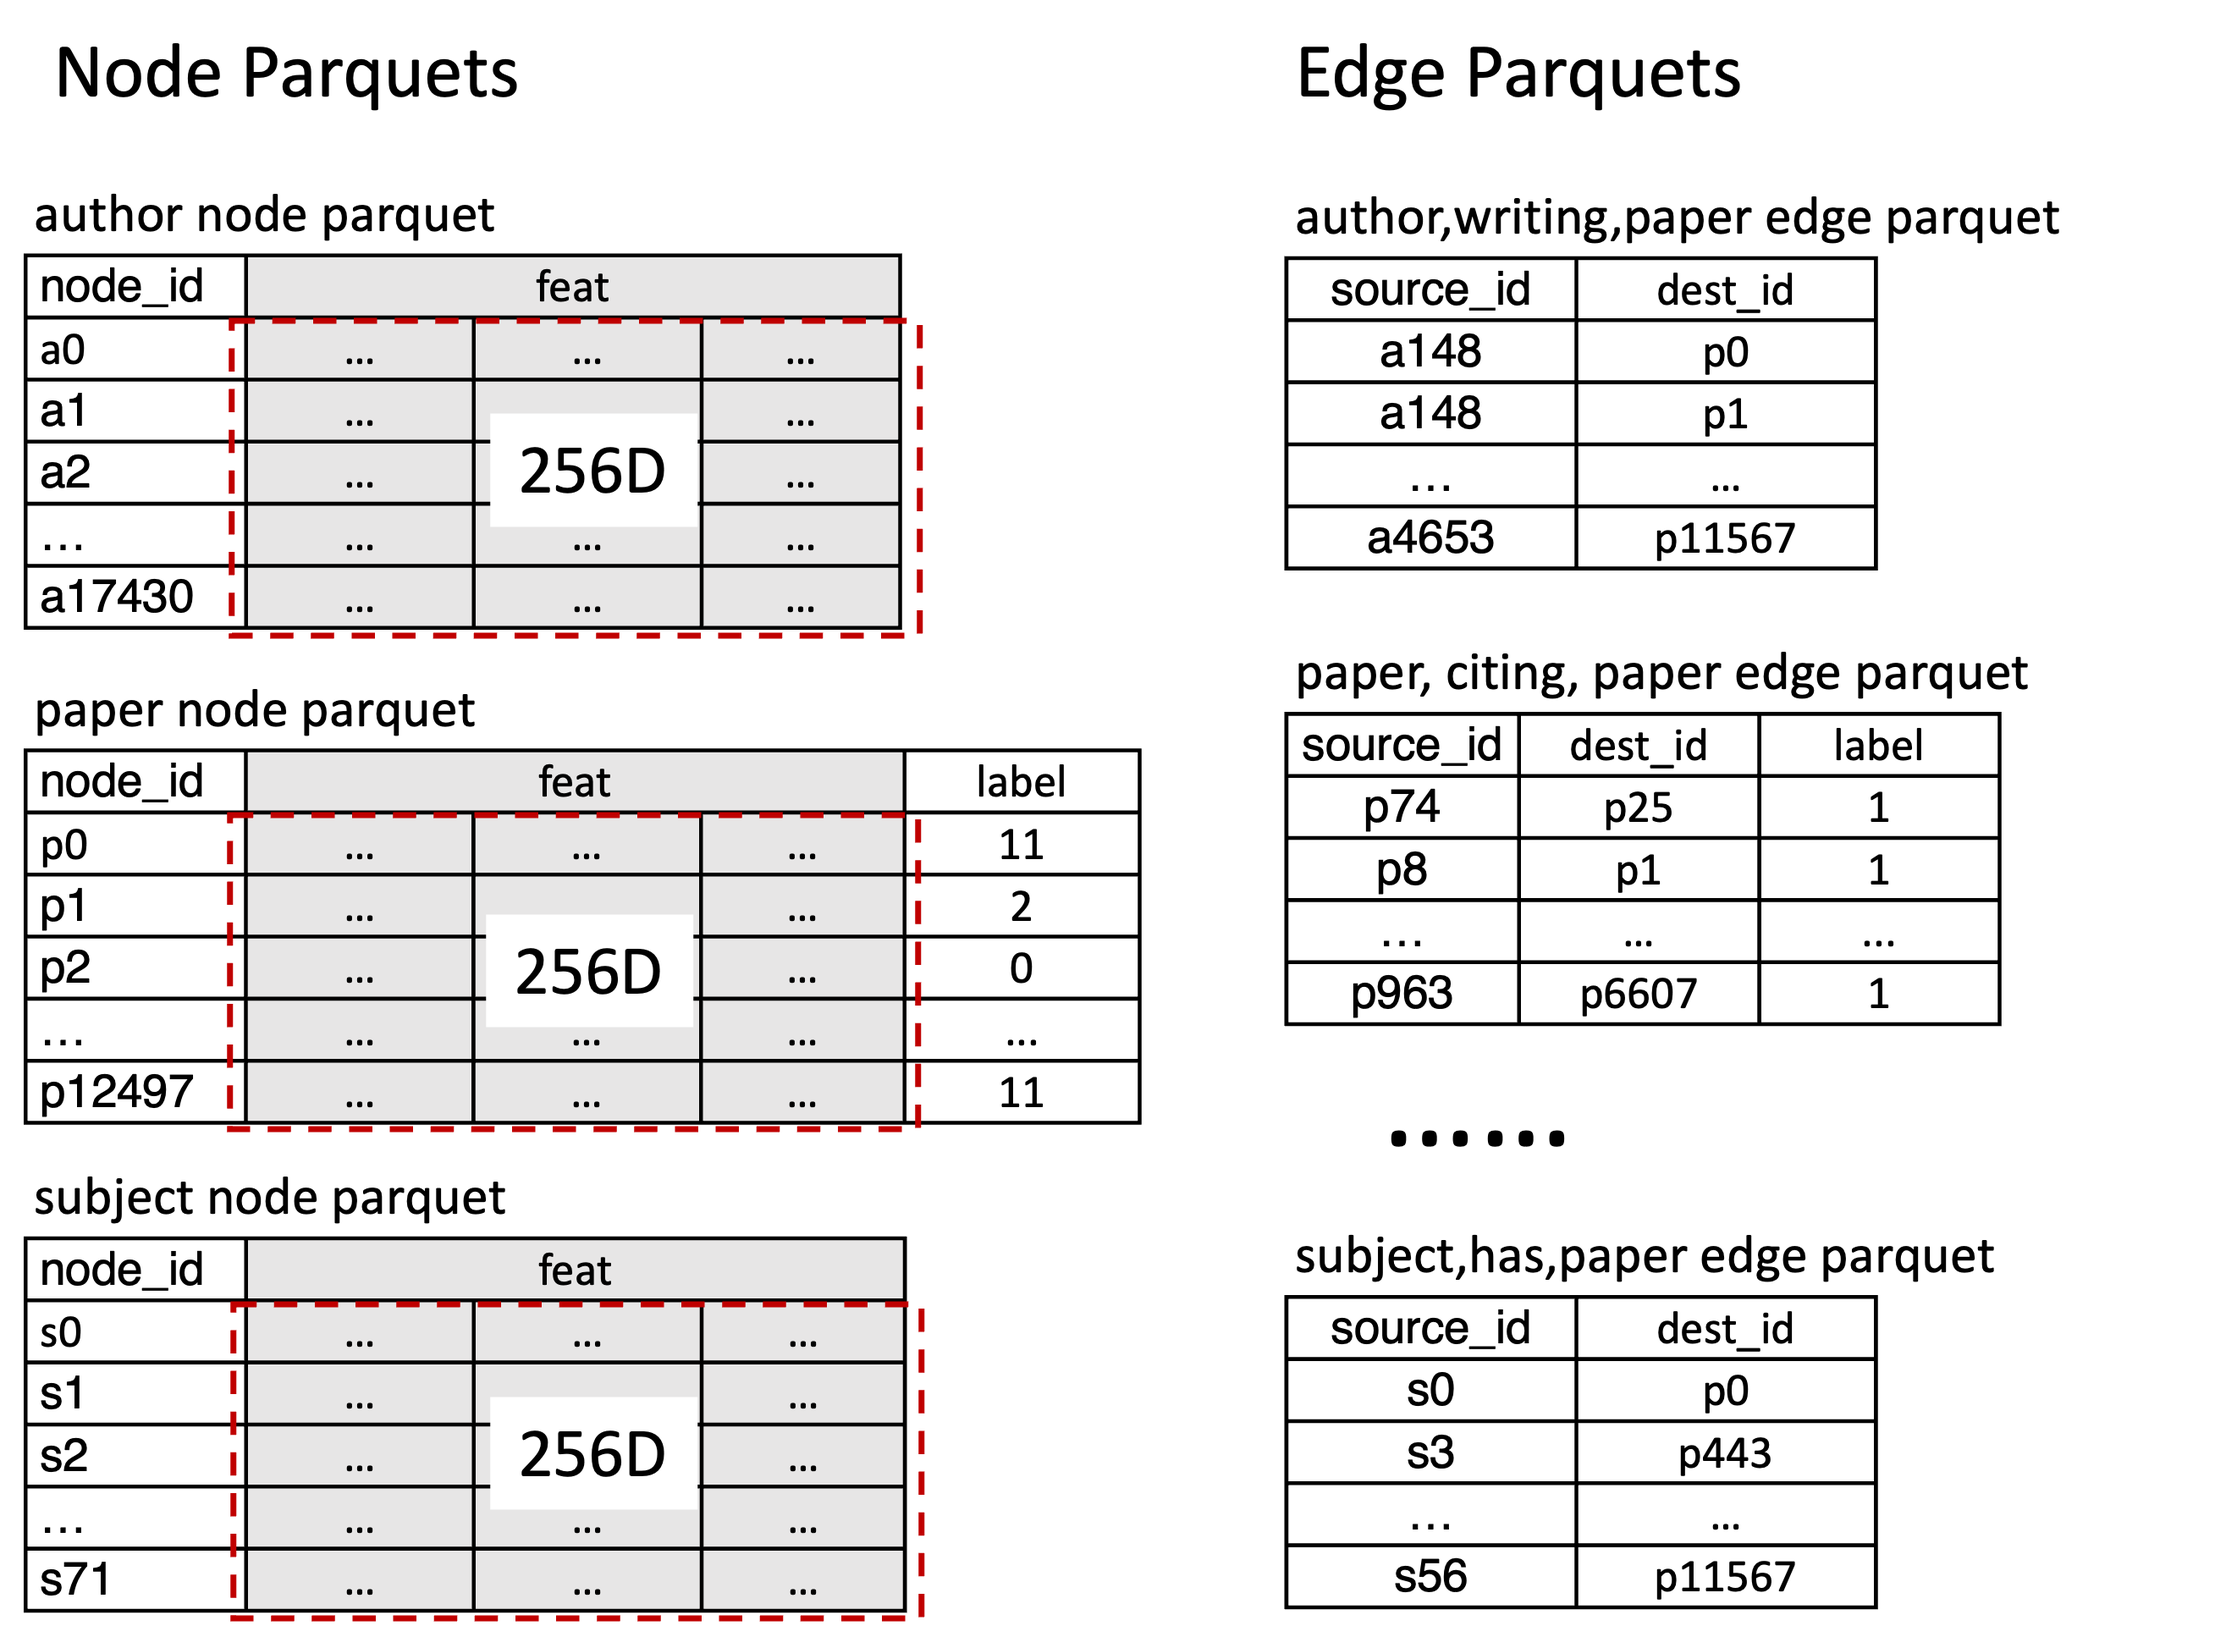
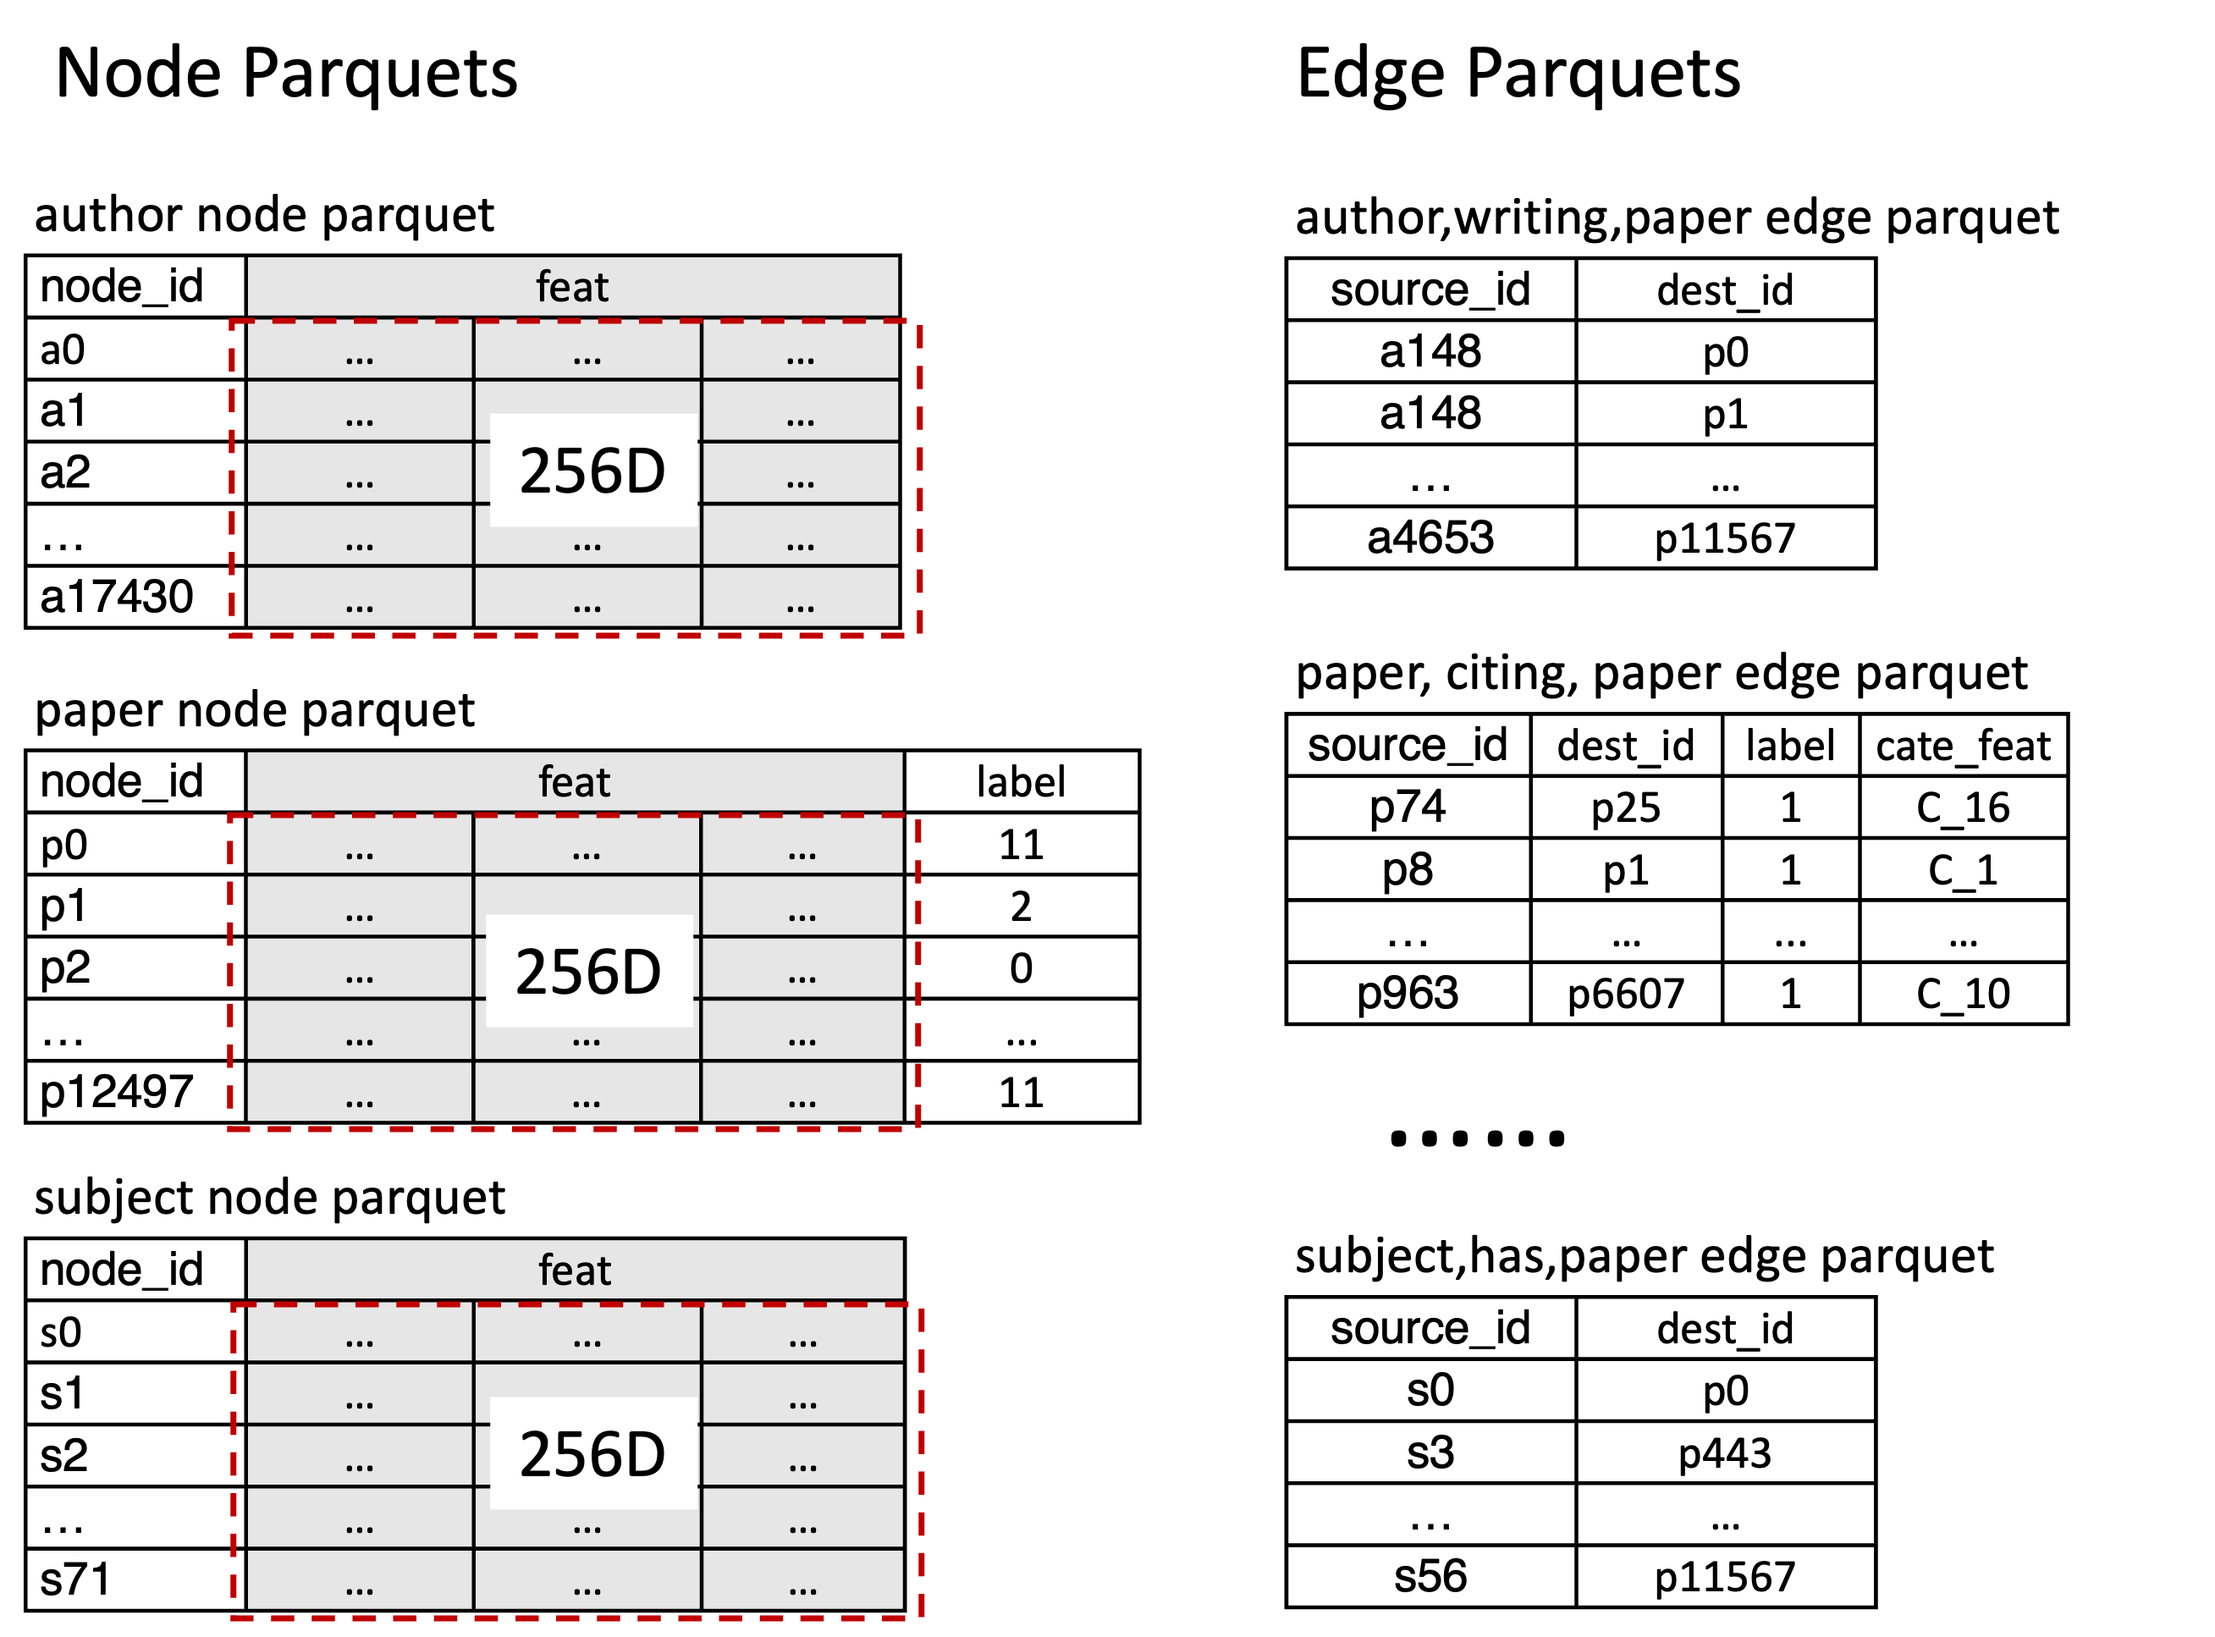
fix acm data json inconsistancy

Changed region(s): [[0.5881, 0.4343, 0.9285, 0.6205]]

diff --git a/examples/acm_data.py b/examples/acm_data.py
@@ -257,10 +257,14 @@ def create_acm_raw_data(graph,
                                                                 # The split pct values are just for
                                                                 # demonstration purpose.
                 labels_list.append(label_dict)
+            elif col.startswith('cate_'):                       # Dummy categorical features that ask
+                feat_dict['feature_col'] = col                  # for a "to_categorical" tranformation
+                feat_dict['feature_name'] = col                 # operation
+                feat_dict['transform'] = {"name": "to_categorical"}
+                feats_list.append(feat_dict)
             else:
                 feat_dict['feature_col'] = col
                 feat_dict['feature_name'] = col
-                # for this example, we do not have transform for features
                 feats_list.append(feat_dict)
         # set up the rest fileds of this node type
         if feats_list:

diff --git a/docs/source/tutorials/own-data.rst b/docs/source/tutorials/own-data.rst
@@ -126,6 +126,15 @@ The above command automatically creates the examplary ACM `config.json` file, so
                 ],
                 "source_id_col": "source_id",
                 "dest_id_col": "dest_id",
+                "features": [
+                    {
+                        "feature_col": "cate_feat",
+                        "feature_name": "cate_feat",
+                        "transform": {
+                            "name": "to_categorical"
+                        }
+                    }
+                ],
                 "labels": [
                     {
                         "task_type": "link_prediction",
